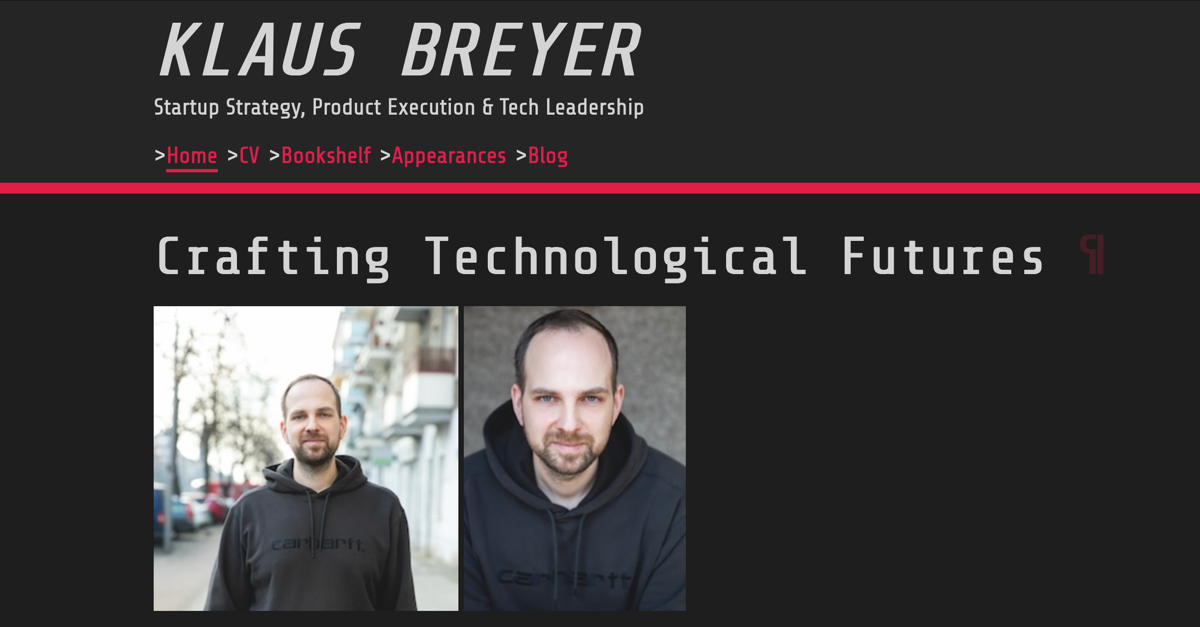
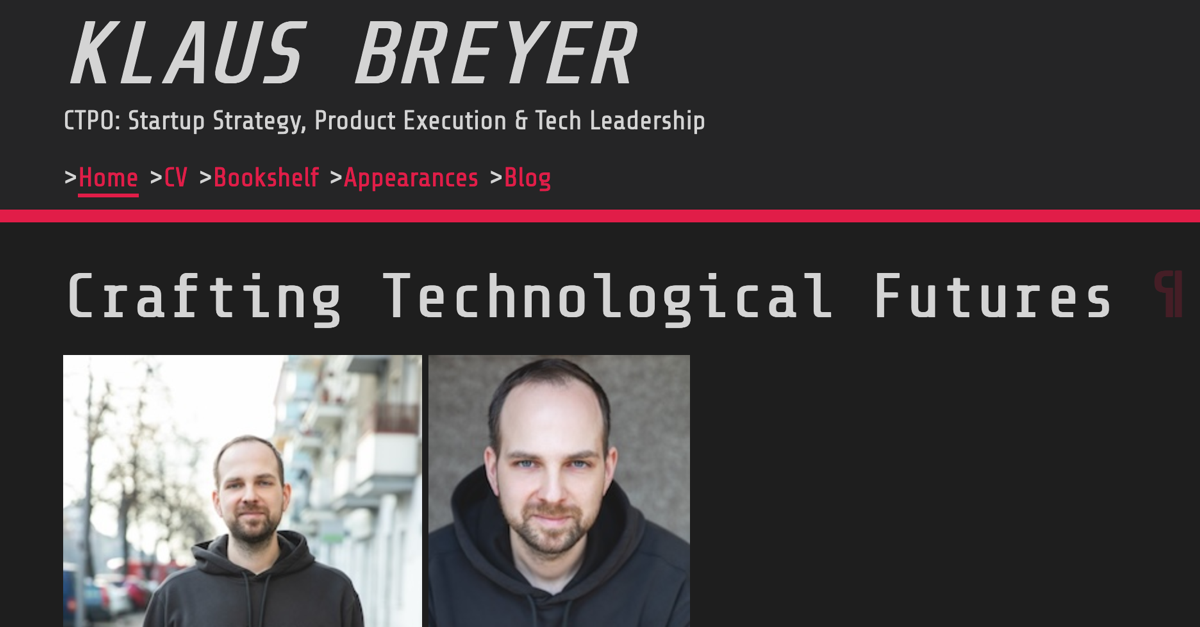
title optimizations

diff --git a/layouts/partials/header.html b/layouts/partials/header.html
@@ -2,7 +2,7 @@
     <a lang="en" class="author" href="/">{{ $.Site.Copyright }} </a>
     {{/* <span class="description">–</span> */}}
     {{/* <span class="description">- CTPO > <a lang="en" href="/categories/business/">Startup Strategy</a>, <a lang="en" href="/categories/product/">Product Execution</a> & <a lang="en" href="/categories/engineering-org/">Tech Leadership</a></span> */}}
-    <div class="description">Startup Strategy, Product Execution & Tech Leadership</div>
+    <div class="description">CTPO: Startup Strategy, Product Execution & Tech Leadership</div>
 
 </nav>
 
